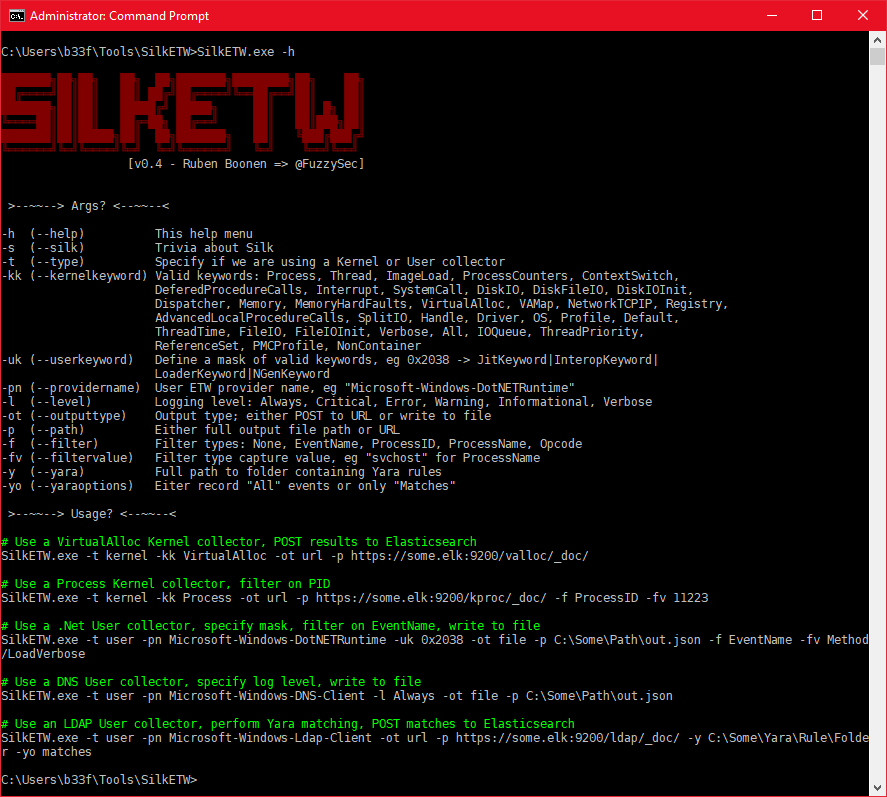
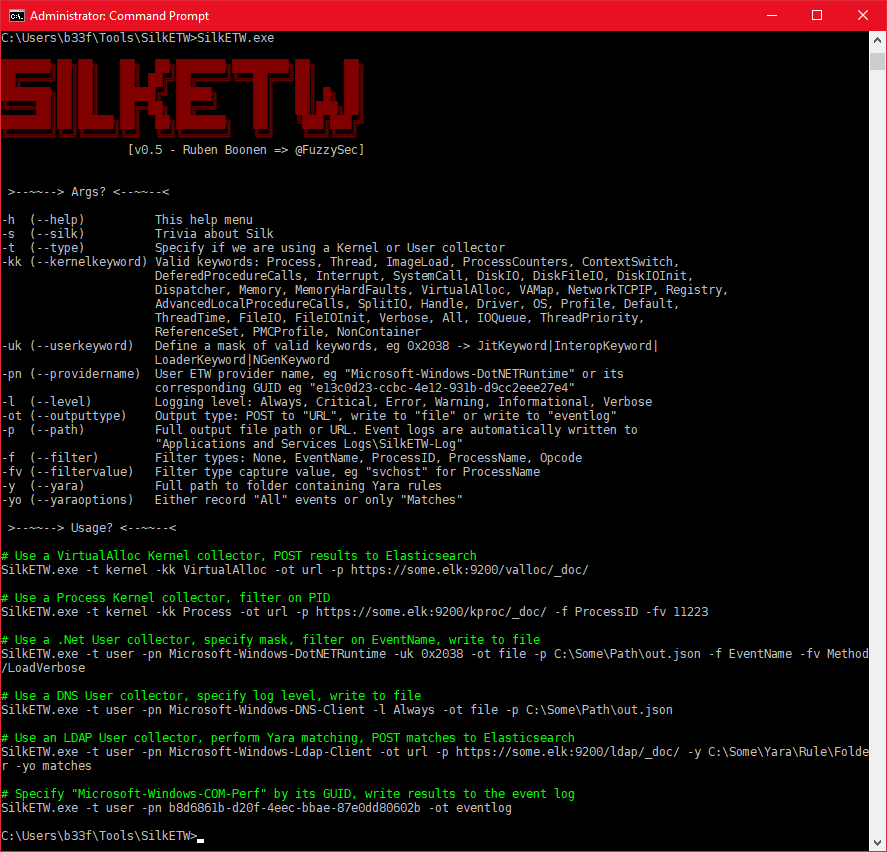
+SilkETW v0.5

Changed region(s): [[0.0, 0.0, 0.9741, 0.9937], [0.8219, 0.7528, 0.9741, 0.813], [0.9741, 0.0301, 1.0, 0.0602]]

diff --git a/SilkETW/h_SilkETW.cs b/SilkETW/h_SilkETW.cs
@@ -1,5 +1,6 @@
 using System;
 using System.IO;
+using System.Diagnostics;
 using Microsoft.Diagnostics.Tracing;
 using System.Collections;
 using System.Security.AccessControl;
@@ -12,7 +13,7 @@ using Newtonsoft.Json.Linq;
 
 namespace SilkETW
 {
-    // Command line enums
+    // Enums
     enum CollectorType
     {
         None = 0,
@@ -24,7 +25,8 @@ namespace SilkETW
     {
         None = 0,
         url,
-        file
+        file,
+        eventlog
     }
 
     enum FilterOption
@@ -41,6 +43,14 @@ namespace SilkETW
         None = 0,
         All,
         Matches
+    }
+
+    enum EventIds
+    {
+        Start = 0,
+        StopOk,
+        StopError,
+        Event
     }
 
     enum KernelKeywords
@@ -277,7 +287,7 @@ namespace SilkETW
             Console.WriteLine("███████║██║█████╗██║  ██╗███████╗   ██║   ╚███╔███╔╝  ");
             Console.WriteLine("╚══════╝╚═╝╚════╝╚═╝  ╚═╝╚══════╝   ╚═╝    ╚══╝╚══╝   ");
             Console.ResetColor();
-            Console.WriteLine("                  [v0.4 - Ruben Boonen => @FuzzySec]\n");
+            Console.WriteLine("                  [v0.5 - Ruben Boonen => @FuzzySec]\n");
         }
 
         // Print trivia ;)
@@ -310,10 +320,12 @@ namespace SilkETW
                               "                      ReferenceSet, PMCProfile, NonContainer\n" +
                               "-uk (--userkeyword)   Define a mask of valid keywords, eg 0x2038 -> JitKeyword|InteropKeyword|\n" +
                               "                      LoaderKeyword|NGenKeyword\n" +
-                              "-pn (--providername)  User ETW provider name, eg \"Microsoft-Windows-DotNETRuntime\"\n" +
+                              "-pn (--providername)  User ETW provider name, eg \"Microsoft-Windows-DotNETRuntime\" or its\n" +
+                              "                      corresponding GUID eg \"e13c0d23-ccbc-4e12-931b-d9cc2eee27e4\"\n" +
                               "-l  (--level)         Logging level: Always, Critical, Error, Warning, Informational, Verbose\n" +
-                              "-ot (--outputtype)    Output type; either POST to URL or write to file\n" +
-                              "-p  (--path)          Either full output file path or URL\n" +
+                              "-ot (--outputtype)    Output type: POST to \"URL\", write to \"file\" or write to \"eventlog\"\n" +
+                              "-p  (--path)          Full output file path or URL. Event logs are automatically written to\n" +
+                              "                      \"Applications and Services Logs\\SilkETW-Log\"\n" +
                               "-f  (--filter)        Filter types: None, EventName, ProcessID, ProcessName, Opcode\n" +
                               "-fv (--filtervalue)   Filter type capture value, eg \"svchost\" for ProcessName\n" +
                               "-y  (--yara)          Full path to folder containing Yara rules\n" +
@@ -330,7 +342,9 @@ namespace SilkETW
             SilkUtility.ReturnStatusMessage("# Use a DNS User collector, specify log level, write to file", ConsoleColor.Green);
             Console.WriteLine("SilkETW.exe -t user -pn Microsoft-Windows-DNS-Client -l Always -ot file -p C:\\Some\\Path\\out.json\n");
             SilkUtility.ReturnStatusMessage("# Use an LDAP User collector, perform Yara matching, POST matches to Elasticsearch", ConsoleColor.Green);
-            Console.WriteLine("SilkETW.exe -t user -pn Microsoft-Windows-Ldap-Client -ot url -p https://some.elk:9200/ldap/_doc/ -y C:\\Some\\Yara\\Rule\\Folder -yo matches");
+            Console.WriteLine("SilkETW.exe -t user -pn Microsoft-Windows-Ldap-Client -ot url -p https://some.elk:9200/ldap/_doc/ -y C:\\Some\\Yara\\Rule\\Folder -yo matches\n");
+            SilkUtility.ReturnStatusMessage("# Specify \"Microsoft-Windows-COM-Perf\" by its GUID, write results to the event log", ConsoleColor.Green);
+            Console.WriteLine("SilkETW.exe -t user -pn b8d6861b-d20f-4eec-bbae-87e0dd80602b -ot eventlog");
         }
 
         // Print status message
@@ -400,6 +414,42 @@ namespace SilkETW
             return isInRoleWithAccess;
         }
 
+        public static Boolean WriteEventLogEntry(String Message, EventLogEntryType Type, EventIds EventId, String Path)
+        {
+            //--[Event ID's]
+            // 0 == Collector start
+            // 1 == Collector terminated -> by user
+            // 2 == Collector terminated -> by error
+            // 3 == Event recorded
+            //--
+
+            try
+            {
+                // Event log properties
+                String Source = "ETW Collector";
+
+                // If the source doesn't exist we have to create it first
+                if (!EventLog.SourceExists(Source))
+                {
+                    EventLog.CreateEventSource(Source, Path);
+                }
+
+                // Write event
+                using (EventLog Log = new EventLog(Path))
+                {
+                    Log.Source = Source;
+                    Log.MaximumKilobytes = 99968; // Max ~100mb size -> needs 64kb increments
+                    Log.ModifyOverflowPolicy(OverflowAction.OverwriteAsNeeded, 10); // Always overwrite oldest
+                    Log.WriteEntry(Message, Type, (int)EventId);
+                }
+                return true;
+            }
+            catch
+            {
+                return false;
+            }
+        }
+
         public static int ProcessJSONEventData(String JSONData, OutputType OutputType, String Path, String YaraScan, YaraOptions YaraOptions)
         {
             // Yara options
@@ -432,6 +482,7 @@ namespace SilkETW
                 // 0 == OK
                 // 1 == File write failed
                 // 2 == URL POST request failed
+                // 3 == Eventlog write failed
                 //--
 
                 // Process JSON
@@ -456,7 +507,7 @@ namespace SilkETW
                     }
 
                 }
-                else
+                else if (OutputType == OutputType.url)
                 {
                     try
                     {
@@ -485,6 +536,18 @@ namespace SilkETW
                         return 2;
                     }
 
+                }
+                else
+                {
+                    Boolean WriteEvent = WriteEventLogEntry(JSONData, EventLogEntryType.Information, EventIds.Event, Path);
+                    if (WriteEvent)
+                    {
+                        return 0;
+                    } else
+                    {
+                        return 3;
+                    }
+                    
                 }
             } else
             {

diff --git a/SilkETW/ETWCollector.cs b/SilkETW/ETWCollector.cs
@@ -1,4 +1,5 @@
 using System;
+using System.Diagnostics;
 using System.IO;
 using Microsoft.Diagnostics.Tracing;
 using Microsoft.Diagnostics.Tracing.Session;
@@ -48,6 +49,10 @@ namespace SilkETW
                     // Ctrl-c callback handler
                     SilkUtility.SetupCtrlCHandler(() =>
                     {
+                        if (OutputType == OutputType.eventlog)
+                        {
+                            SilkUtility.WriteEventLogEntry("{\"Collector\":\"Stop\",\"Error\":false}", EventLogEntryType.SuccessAudit, EventIds.StopOk, Path);
+                        }
                         TerminateCollector();
                     });
 
@@ -136,9 +141,17 @@ namespace SilkETW
                                 if (ProcessResult == 1)
                                 {
                                     SilkUtility.ReturnStatusMessage("[!] The collector failed to write to file", ConsoleColor.Red);
-                                } else
+                                } else if (ProcessResult == 2)
                                 {
                                     SilkUtility.ReturnStatusMessage("[!] The collector failed to POST the result", ConsoleColor.Red);
+                                } else {
+                                    SilkUtility.ReturnStatusMessage("[!] The collector failed write to the eventlog", ConsoleColor.Red);
+                                }
+
+                                // Write status to eventlog if dictated by the output type
+                                if (OutputType == OutputType.eventlog)
+                                {
+                                    SilkUtility.WriteEventLogEntry($"{{\"Collector\":\"Stop\",\"Error\":true,\"ErrorCode\":{ProcessResult}}}", EventLogEntryType.Error, EventIds.StopError, Path);
                                 }
 
                                 // Shut down the collector
@@ -156,6 +169,21 @@ namespace SilkETW
                         // Note that the collector doesn't know if you specified a wrong provider name,
                         // the only tell is that you won't get any events ;) 
                         TraceSession.EnableProvider(ProviderName, (TraceEventLevel)UserTraceEventLevel, TraceKeywords);
+                    }
+
+                    // Write status to eventlog if dictated by the output type
+                    if (OutputType == OutputType.eventlog)
+                    {
+                        String ConvertKeywords;
+                        if (CollectorType == CollectorType.Kernel)
+                        {
+                            ConvertKeywords = Enum.GetName(typeof(KernelTraceEventParser.Keywords), TraceKeywords);
+                        } else
+                        {
+                            ConvertKeywords = "0x" + String.Format("{0:X}", TraceKeywords);
+                        }
+                        String Message = $"{{\"Collector\":\"Start\",\"Data\":{{\"Type\":\"{CollectorType}\",\"Provider\":\"{ProviderName}\",\"Keywords\":\"{ConvertKeywords}\",\"FilterOption\":\"{FilterOption}\",\"FilterValue\":\"{FilterValue}\",\"YaraPath\":\"{YaraScan}\",\"YaraOption\":\"{YaraOptions}\"}}}}";
+                        SilkUtility.WriteEventLogEntry(Message, EventLogEntryType.SuccessAudit, EventIds.Start, Path);
                     }
 
                     // Continuously process all new events in the data source

diff --git a/SilkETW/Program.cs b/SilkETW/Program.cs
@@ -28,7 +28,7 @@ namespace SilkETW
         public OutputType OutputType { get; }
 
         [Option("-p|--path", CommandOptionType.SingleValue)]
-        public String Path { get; } = String.Empty;
+        public String Path { get; set; } = String.Empty;
 
         [Option("-pn|--providername", CommandOptionType.SingleValue)]
         public String ProviderName { get; } = String.Empty;
@@ -172,7 +172,7 @@ namespace SilkETW
                         }
                     }
                 }
-                else
+                else if (OutputType == OutputType.url)
                 {
                     if (String.IsNullOrEmpty(Path))
                     {
@@ -189,6 +189,10 @@ namespace SilkETW
                             return;
                         }
                     }
+                }
+                else if (OutputType == OutputType.eventlog)
+                {
+                    Path = "SilkETW-Log";
                 }
             }
 

diff --git a/README.md b/README.md
@@ -160,5 +160,6 @@ For details on version specific changes, please refer to the [Changelog](Changel
 ### RoadMap
 
 * Offer users the option to write trace data to disk as *.etl files.
+* ~~Offer users the option to write trace data to the Windows event log.~~ **(v0.5)**
 * Create a separate instance (SilkService) which can be deployed as a service with a configuration file.
 * Suggestions welcome!
